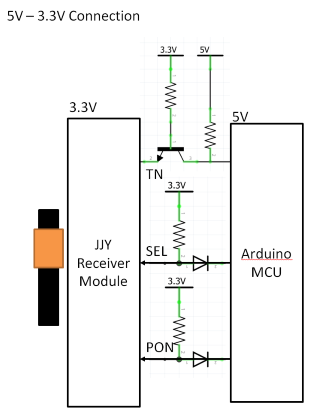
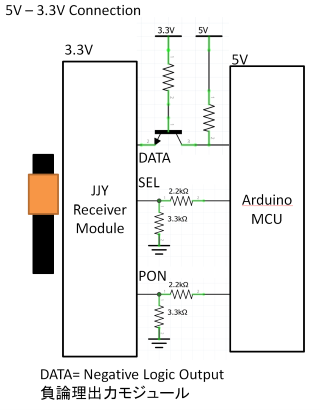
画像追加

diff --git a/README.md b/README.md
@@ -77,6 +77,8 @@ P,M
 
 ![](img/Circuit3.png)
 
+![](img/Circuit2.png)
+
 ![](img/Circuit1.png)
 
 | 基板シルク                           | 機能                                                                                                                 | MAS6181B端子 | ライブラリコンストラクタ |
@@ -260,10 +262,6 @@ if(tm_info.tm_min == 0){
 // 毎正時 00分に実行
 }
 ```
-
-
-
-
 
 [Note]v0.2.0より追加
 
